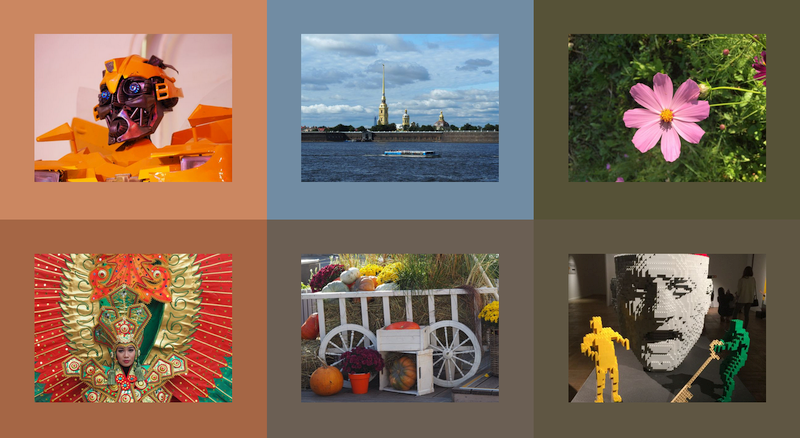
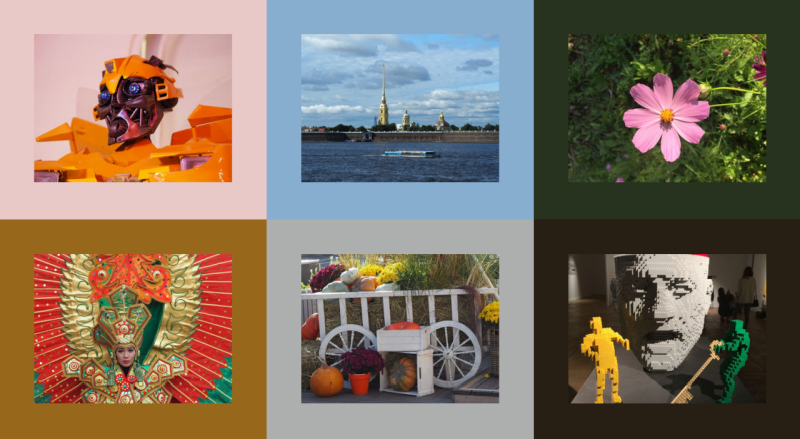
Added example with box shadow for 4 sides

diff --git a/examples/box-shadow-4-sides.html b/examples/box-shadow-4-sides.html
@@ -4,7 +4,7 @@
     <title>Average color: Box shadow</title>
     <meta charset="utf-8" />
     <meta name="viewport" content="width=device-width, initial-scale=1, maximum-scale=1" />
-    <link rel="stylesheet" href="box-shadow.css" />
+    <link rel="stylesheet" href="box-shadow-4-sides.css" />
 </head>
 <body>
     <div class="item">
@@ -15,14 +15,14 @@
     </div>
 
     <div class="item">
-        <img src="images/2.jpg" />
+        <img src="images/8.jpg" />
         <div class="item__text">
             Lorem ipsum dolor sit amet, consectetur adipiscing elit, sed do eiusmod tempor incididunt ut labore et dolore magna aliqua.
         </div>
     </div>
 
     <div class="item">
-        <img src="images/3.jpg" />
+        <img src="images/5.jpg" />
         <div class="item__text">
             Lorem ipsum dolor sit amet, consectetur adipiscing elit, sed do eiusmod tempor incididunt ut labore et dolore magna aliqua.
         </div>
@@ -36,7 +36,7 @@
     </div>
 
     <div class="item">
-        <img src="images/5.jpg" />
+        <img src="images/3.jpg" />
         <div class="item__text">
             Lorem ipsum dolor sit amet, consectetur adipiscing elit, sed do eiusmod tempor incididunt ut labore et dolore magna aliqua.
         </div>
@@ -57,13 +57,13 @@
     </div>
 
     <div class="item">
-        <img src="images/8.jpg" />
+        <img src="images/2.jpg" />
         <div class="item__text">
             Lorem ipsum dolor sit amet, consectetur adipiscing elit, sed do eiusmod tempor incididunt ut labore et dolore magna aliqua.
         </div>
     </div>
 
     <script src="../dist/index.js"></script>
-    <script src="box-shadow.js"></script>
+    <script src="box-shadow-4-sides.js"></script>
 </body>
 </html>

diff --git a/examples/box-shadow-4-sides.js b/examples/box-shadow-4-sides.js
@@ -1,0 +1,32 @@
+window.addEventListener('load', function() {
+    var
+        ac = new FastAverageColor(),
+        items = document.querySelectorAll('.item');
+
+    for (var i = 0; i < items.length; i++) {
+        var
+            item = items[i],
+            image = item.querySelector('img'),
+            size = 50,
+            width = image.naturalWidth,
+            height = image.naturalHeight,
+            colorTop = ac.getColorSync(image, {height: size}),
+            colorRight = ac.getColorSync(image, {left: width - size, width: size}),
+            colorLeft = ac.getColorSync(image, {width: size}),
+            colorBottom = ac.getColorSync(image, {top: height - size, height: size}),
+            radius = ' 90px ',
+            delta = '70px'
+
+        image.style.boxShadow = [
+            '0 -{delta} {radius} ' + colorTop.rgb,
+            '{delta} 0 {radius} ' + colorRight.rgb,
+            '0 {delta} {radius} ' + colorBottom.rgb,
+            '-{delta} 0 {radius} ' + colorLeft.rgb
+        ]
+            .join(', ')
+            .replace(/\{delta\}/g, delta)
+            .replace(/\{radius\}/g, radius);
+
+        item.style.color = colorBottom.isDark ? 'white' : 'black';
+    }
+}, false);

diff --git a/examples/box-shadow.css b/examples/box-shadow.css
@@ -8,17 +8,26 @@ html, body {
 }
 
 img {
-  width: 100%;
+    width: 100%;
+    border-radius: 50px;
+    transition: all .3s ease;
+}
+
+img:hover {
+    opacity: .8;
+    transform: translateY(10px);
 }
 
 .item {
-  float: left;
-  width: 400px;
-  padding: 70px;
-  transition: background-color .5s ease;
+    float: left;
+    width: 400px;
+    padding: 70px;
+    transition: background-color .5s ease;
 }
 
 .item__text {
-  padding: 10px;
-  height: 3em;
+    position: relative;
+    z-index: 10;
+    padding: 10px;
+    height: 3em;
 }

diff --git a/examples/box-shadow-4-sides.css b/examples/box-shadow-4-sides.css
@@ -9,6 +9,8 @@ html, body {
 
 img {
     width: 100%;
+    border-radius: 50px;
+    transition: all .3s ease;
 }
 
 .item {
@@ -19,6 +21,8 @@ img {
 }
 
 .item__text {
-    padding: 10px;
-    height: 3em;
+  position: relative;
+  z-index: 10;
+  padding: 10px;
+  height: 3em;
 }

diff --git a/README.md b/README.md
@@ -5,11 +5,12 @@
 [![Build Status](https://img.shields.io/travis/hcodes/fast-average-color.svg?style=flat)](https://travis-ci.org/hcodes/fast-average-color)
 
 A simple library that calculates the average color of any images in browser environment.
-<img width="640" height="351" src="https://raw.githubusercontent.com/hcodes/fast-average-color/master/examples/title.png" />
+<img width="100%" style="max-width: 640px;" src="https://raw.githubusercontent.com/hcodes/fast-average-color/master/examples/title.png" />
 
 ## Examples
 - [Background](https://hcodes.github.io/fast-average-color/examples/background.html)
 - [Box shadow](https://hcodes.github.io/fast-average-color/examples/box-shadow.html)
+- [Box shadow, 4 sides](https://hcodes.github.io/fast-average-color/examples/box-shadow-4-sides.html)
 - [Gallery](https://hcodes.github.io/fast-average-color/examples/gallery.html)
 - [Canvas](https://hcodes.github.io/fast-average-color/examples/canvas.html)
 
@@ -34,7 +35,7 @@ yarn add fast-average-color
             var fac = new FastAverageColor();
             var color = fac.getColorSync(document.querySelector('img'));
             console.log(color);
-            // { 
+            // {
             //     error: null,
             //     rgb: 'rgb(255, 0, 0)',
             //     rgba: 'rgba(255, 0, 0, 1)',
@@ -103,7 +104,7 @@ const fac = new FastAverageColor();
 // From not loaded image (HTMLImageElement)
 fac.getColor(image1, function(color) {
     console.log(color);
-    // { 
+    // {
     //     error: null,
     //     rgb: 'rgb(255, 0, 0)',
     //     rgba: 'rgba(255, 0, 0, 1)',
@@ -120,7 +121,7 @@ fac.getColor(image2, function(color, data) {
     // this = image2
 
     console.log(color);
-    // { 
+    // {
     //     error: null,
     //     rgb: 'rgb(255, 0, 0)',
     //     rgba: 'rgba(255, 0, 0, 1)',
@@ -129,7 +130,7 @@ fac.getColor(image2, function(color, data) {
     //     value: [255, 0, 0, 255],
     //     isDark: true
     // }
-    
+
     console.log(data);
     // {
     //     myProp: 1
